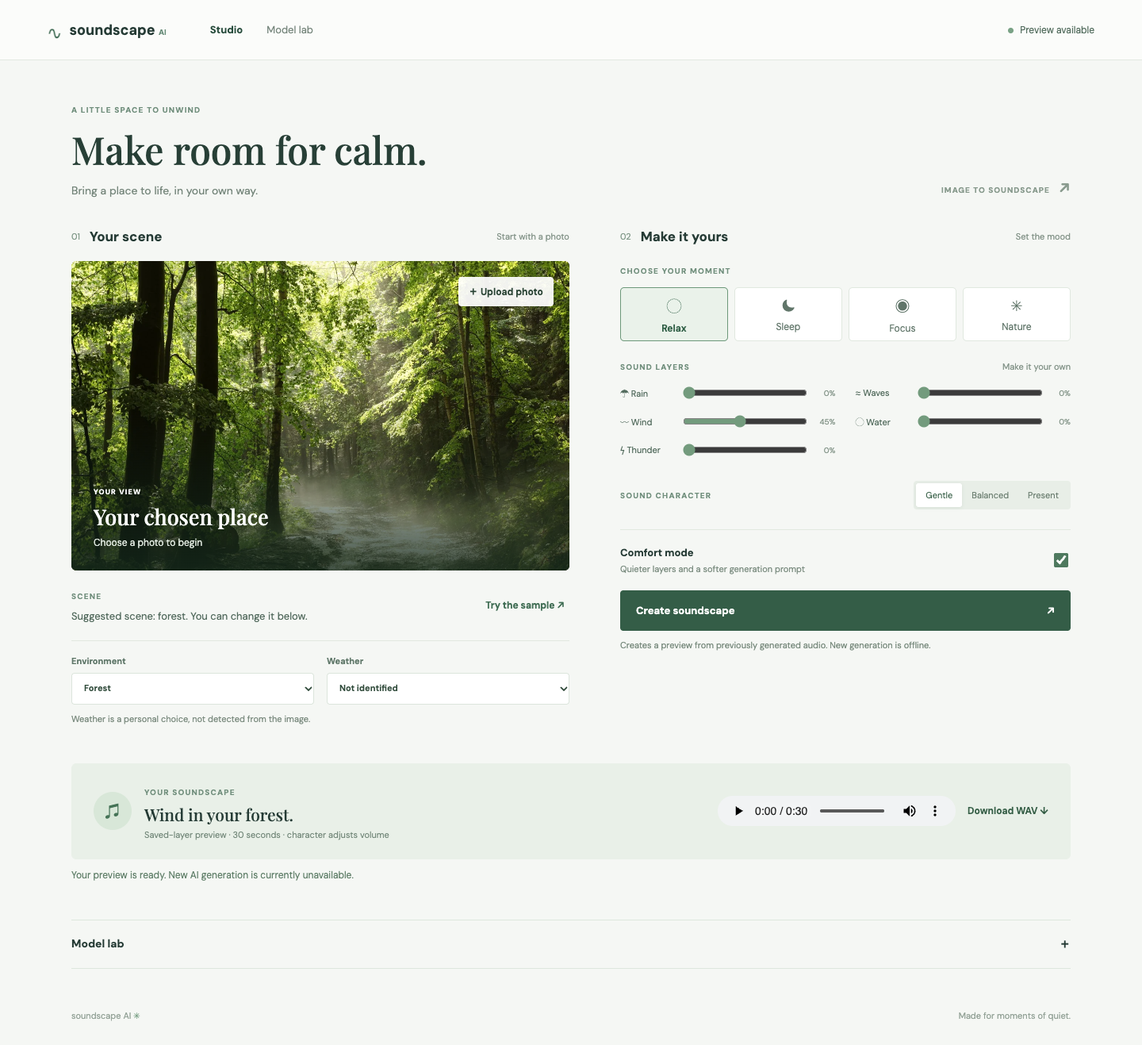
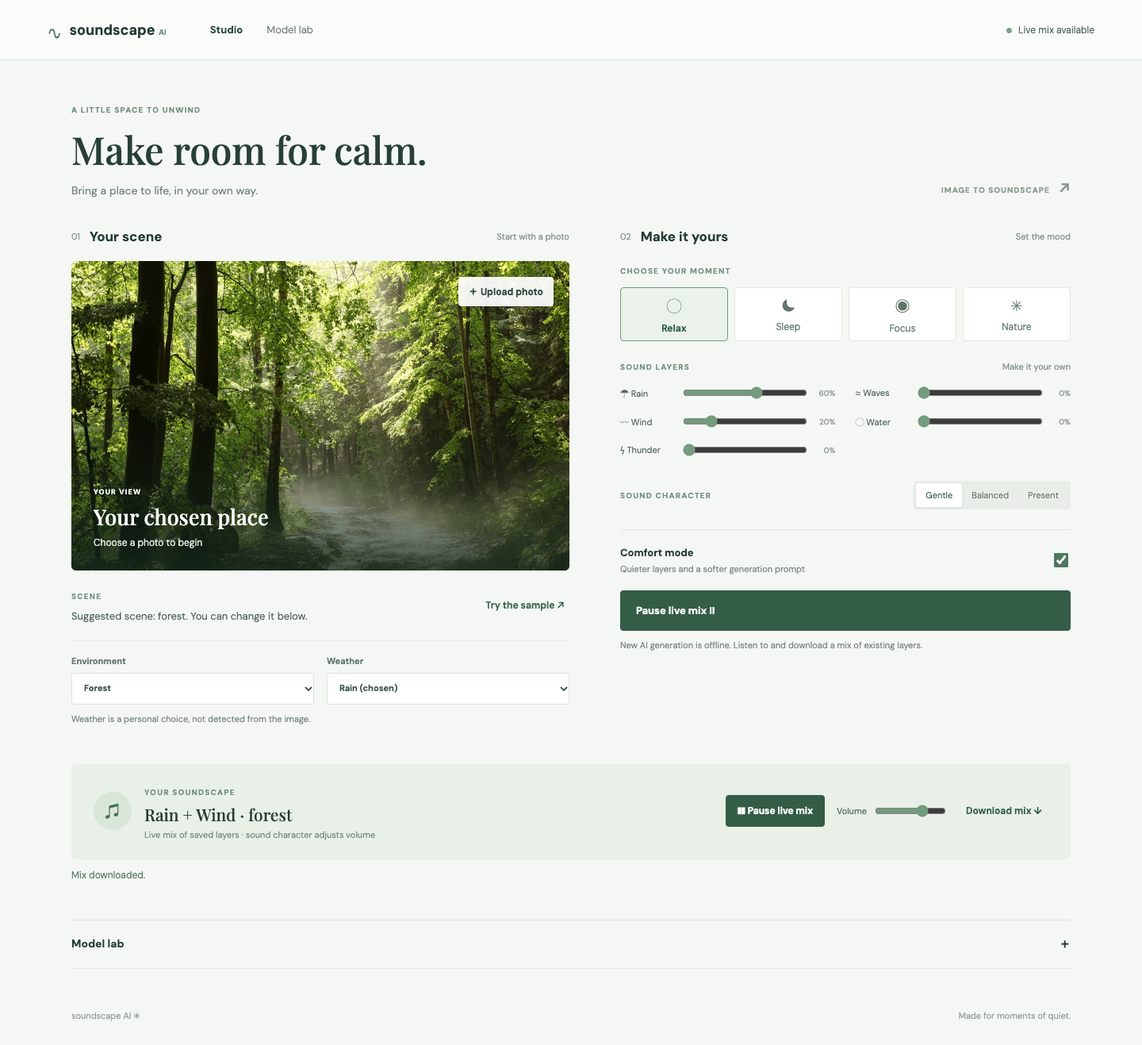
Synchronize weather and live soundscape mixing

diff --git a/frontend/app.js b/frontend/app.js
@@ -5,9 +5,11 @@ const symbols = {rain:'☂',sea_waves:'≈',wind:'〰',pouring_water:'◌',thund
 const sceneSound = {forest:'wind',coast:'sea_waves',mountain:'wind',river:'pouring_water',waterfall:'pouring_water',lake:'wind',desert:'wind'};
 const presetLevels = {relax:{rain:35,wind:15},sleep:{rain:25,wind:10},focus:{pouring_water:30,wind:10},nature:{wind:35,pouring_water:20}};
 let levels = {...presetLevels.relax};
-let intensity = 'gentle', generationAvailable = false, visionAvailable = false;
+let intensity = 'gentle', preset = 'relax', generationAvailable = false, visionAvailable = false;
 let objectUrl = null, imageUrl = null, requestVersion = 0;
 const player = $('soundPlayer');
+let context = null, master = null, gains = {}, loadingMixer = false;
+let promptTimer=null, promptVersion=0;
 
 function status(message, isError=false) { $('statusMessage').textContent=message; $('statusMessage').classList.toggle('error',isError); }
 async function api(path, options={}) {
@@ -35,15 +37,93 @@ function renderLevels() {
     const text=document.createElement('label'); text.htmlFor='level-'+key; text.textContent=symbols[key]+'  '+label;
     const slider=document.createElement('input'); Object.assign(slider,{type:'range',min:'0',max:'100',step:'5',value:String(levels[key]||0),id:'level-'+key});
     const value=document.createElement('output'); value.textContent=(levels[key]||0)+'%';
-    slider.addEventListener('input',()=>{levels[key]=Number(slider.value);value.textContent=slider.value+'%';invalidate();});
+    slider.addEventListener('input',()=>{levels[key]=Number(slider.value);value.textContent=slider.value+'%';if(levels[key]===0 && $('weatherSelect').value===(key==='rain'?'rain':key==='wind'?'wind':''))$('weatherSelect').value='none';invalidate();});
     row.append(text,slider,value); container.append(row);
   });
 }
-function invalidate() { requestVersion++; status('Your preferences changed. Create a new soundscape to hear them.'); }
+function effectiveLevels() {
+  const gain=($('comfortMode').checked ? .7 : 1)*({gentle:.75,moderate:.9,strong:1}[intensity]);
+  const total=Object.values(levels).reduce((sum,value)=>sum+value,0);
+  const headroom=Math.min(1, 100/Math.max(100,total));
+  return Object.fromEntries(Object.keys(names).map(key=>[key,Math.round((levels[key]||0)*gain*headroom)]));
+}
+function description() {
+  const active=Object.keys(names).filter(key=>(levels[key]||0)>0).map(key=>names[key]);
+  return (active.length?active.join(' + '):'No layers')+' · '+($('sceneSelect').value==='unknown'?'nature':$('sceneSelect').value);
+}
+function updateGains() {
+  if(!context || !master)return;
+  const current=effectiveLevels();
+  for(const [key,node] of Object.entries(gains))node.gain.setTargetAtTime(current[key]/100,context.currentTime,.04);
+  master.gain.setTargetAtTime(Number($('previewVolume').value)/100,context.currentTime,.04);
+}
+function invalidate() {
+  requestVersion++;
+  updateGains();
+  schedulePrompt();
+  if(player.hidden){$('player-title').textContent=description();$('previewOrigin').textContent='Live mix of saved layers · sound character adjusts volume';}
+  else status('Preferences updated. Your generated recording is unchanged.');
+}
 function currentSettings() {
   const entries=Object.entries(names).map(([key])=>[key,levels[key]||0]).sort((a,b)=>b[1]-a[1]);
-  return {scene:$('sceneSelect').value,sound:entries[0][0],intensity,comfort_mode:$('comfortMode').checked,weather:$('weatherSelect').value,seconds:10};
+  return {scene:$('sceneSelect').value,sound:entries[0][0],levels:Object.fromEntries(entries.filter(entry=>entry[1]>0)),preset,intensity,comfort_mode:$('comfortMode').checked,weather:$('weatherSelect').value,seconds:10};
 }
+function schedulePrompt(){
+  clearTimeout(promptTimer);const version=++promptVersion;
+  if(!Object.values(levels).some(value=>value>0)){$('promptDescription').textContent='Choose at least one sound.';return;}
+  promptTimer=setTimeout(async()=>{
+    try{const data=await (await api('compose',{method:'POST',headers:{'Content-Type':'application/json'},body:JSON.stringify(currentSettings())})).json();if(version===promptVersion)$('promptDescription').textContent=data.prompt;}
+    catch(error){if(version===promptVersion)$('promptDescription').textContent='Prompt unavailable.';}
+  },200);
+}
+async function ensureMixer() {
+  if(context)return;
+  const AudioContextClass=window.AudioContext||window.webkitAudioContext;
+  if(!AudioContextClass)throw new Error('Live mixing is unavailable in this browser. Download a mix instead.');
+  const ctx=new AudioContextClass();
+  const activation=ctx.resume();
+  try {
+    const buffers=await Promise.all(Object.keys(names).map(async key=>{
+      const response=await api('preview/'+key);return ctx.decodeAudioData(await response.arrayBuffer());
+    }));
+    master=ctx.createGain();master.gain.value=0;master.connect(ctx.destination);
+    Object.keys(names).forEach((key,index)=>{
+      const source=ctx.createBufferSource(), node=ctx.createGain();
+      source.buffer=buffers[index];source.loop=true;node.gain.value=0;source.connect(node).connect(master);source.start(ctx.currentTime+.1);
+      gains[key]=node;
+    });
+    context=ctx;updateGains();await activation;
+  } catch(error){await ctx.close();master=null;gains={};throw error;}
+}
+async function togglePreview() {
+  if(loadingMixer)return;
+  if(!Object.values(levels).some(value=>value>0)){status('Choose at least one sound layer.',true);return;}
+  const button=$('previewPlay');loadingMixer=true;button.disabled=true;
+  try {
+    if(!context){status('Loading saved sound layers…');await ensureMixer();}
+    if(context.state==='running' && button.getAttribute('aria-pressed')==='true') {
+      await context.suspend();button.setAttribute('aria-pressed','false');button.textContent='▶ Play live mix';if(!generationAvailable)$('generateBtn').textContent='Play live mix ↗';status('Live mix paused.');
+    } else {
+      player.pause();player.hidden=true;$('downloadSound').hidden=true;
+      await context.resume();button.setAttribute('aria-pressed','true');button.textContent='❚❚ Pause live mix';
+      if(!generationAvailable)$('generateBtn').textContent='Pause live mix Ⅱ';
+      $('player-title').textContent=description();$('previewOrigin').textContent='Live mix of saved layers · sound character adjusts volume';
+      status('Live mix playing. Adjust the layers as you listen.');
+    }
+  }catch(error){status(error.message,true);}finally{loadingMixer=false;button.disabled=false;}
+}
+$('previewPlay').addEventListener('click',()=>void togglePreview());
+$('previewVolume').addEventListener('input',()=>{updateGains();requestVersion++;});
+$('downloadMix').addEventListener('click',async()=>{
+  const button=$('downloadMix'), version=requestVersion;button.disabled=true;
+  try {
+    const volume=Number($('previewVolume').value)/100;
+    const mix=Object.fromEntries(Object.entries(effectiveLevels()).map(([key,value])=>[key,Math.round(value*volume)]));
+    const response=await api('mix',{method:'POST',headers:{'Content-Type':'application/json'},body:JSON.stringify({seconds:30,levels:mix})});
+    const blob=await response.blob();if(version!==requestVersion){status('Settings changed. Download the updated mix.');return;}
+    const url=URL.createObjectURL(blob), link=document.createElement('a');link.href=url;link.download='soundscape_mix.wav';link.click();setTimeout(()=>URL.revokeObjectURL(url),60000);status('Mix downloaded.');
+  }catch(error){status(error.message,true);}finally{button.disabled=false;}
+});
 async function analyzeFile(file) {
   if (!file || !['image/jpeg','image/png','image/webp'].includes(file.type) || file.size>8*1024*1024) { status('Choose a JPEG, PNG or WebP image under 8 MB.',true); return; }
   const version=++requestVersion;
@@ -58,6 +138,8 @@ async function analyzeFile(file) {
     if(result.scene && result.scene!=='unknown' && result.accepted!==false) {
       $('sceneSelect').value=result.scene;
       const sound=sceneSound[result.scene]||'wind'; levels={[sound]:45}; renderLevels();
+      if($('weatherSelect').value!=='none')$('weatherSelect').dispatchEvent(new Event('change'));
+      else { updateGains();schedulePrompt();if(player.hidden)$('player-title').textContent=description(); }
       $('analysisResult').textContent='Suggested scene: '+result.scene+'. You can change it below.';
       status('Scene ready. Choose the atmosphere you want to hear.');
     } else { $('sceneSelect').value='unknown'; $('analysisResult').textContent='Scene uncertain. Choose the closest environment below.'; status('Choose an environment to continue.'); }
@@ -69,37 +151,44 @@ drop.addEventListener('dragover',event=>{event.preventDefault();drop.classList.a
 drop.addEventListener('dragleave',()=>drop.classList.remove('dragover'));
 drop.addEventListener('drop',event=>{event.preventDefault();drop.classList.remove('dragover');void analyzeFile(event.dataTransfer.files[0]);});
 $('useSampleBtn').addEventListener('click',async()=>{try {const r=await fetch('/static/images/forest_sample.webp');if(!r.ok)throw Error('Sample image unavailable');await analyzeFile(new File([await r.blob()],'forest.webp',{type:'image/webp'}));}catch(e){status(e.message,true);}});
-document.querySelectorAll('[data-preset]').forEach(button=>button.addEventListener('click',()=>{levels={...presetLevels[button.dataset.preset]};setActive('presets','data-preset',button.dataset.preset);renderLevels();invalidate();}));
+document.querySelectorAll('[data-preset]').forEach(button=>button.addEventListener('click',()=>{preset=button.dataset.preset;levels={...presetLevels[preset]};setActive('presets','data-preset',preset);if($('weatherSelect').value!=='none')$('weatherSelect').dispatchEvent(new Event('change'));else{renderLevels();invalidate();}}));
 document.querySelectorAll('[data-intensity]').forEach(button=>button.addEventListener('click',()=>{intensity=button.dataset.intensity;setActive('segments','data-intensity',intensity);invalidate();}));
-['sceneSelect','weatherSelect','comfortMode'].forEach(id=>$(id).addEventListener('change',invalidate));
+$('comfortMode').addEventListener('change',invalidate);
+$('sceneSelect').addEventListener('change',()=>{
+  const sound=sceneSound[$('sceneSelect').value]||'wind';
+  levels={[sound]:45};
+  if($('weatherSelect').value!=='none')$('weatherSelect').dispatchEvent(new Event('change'));
+  else {renderLevels();invalidate();}
+});
+$('weatherSelect').addEventListener('change',()=>{
+  const weather=$('weatherSelect').value;
+  if(weather==='rain'){
+    levels.rain=Math.max(levels.rain||0,60);
+    if($('sceneSelect').value==='coast')levels.sea_waves=Math.max(levels.sea_waves||0,40);
+    if($('sceneSelect').value==='forest')levels.wind=Math.min(levels.wind||0,20);
+  }else if(weather==='wind')levels.wind=Math.max(levels.wind||0,60);
+  renderLevels();invalidate();
+  if(weather==='snow'||weather==='fog')status('Weather is a visual preference; choose the sounds you want to hear.');
+});
 $('generateBtn').addEventListener('click',async()=>{
+  if(!generationAvailable){await togglePreview();return;}
   const version=++requestVersion, button=$('generateBtn');
   if(!Object.values(levels).some(v=>v>0)){status('Choose at least one sound layer.',true);return;}
   button.disabled=true; status(generationAvailable?'Creating your new soundscape…':'Preparing your preview from saved layers…');
   try {
     const settings=currentSettings();
     const composed=await (await api('compose',{method:'POST',headers:{'Content-Type':'application/json'},body:JSON.stringify(settings)})).json();
-    let response, generated=false, fallbackReason='';
-    if(generationAvailable) {
-      try {
-        response=await api('generate',{method:'POST',headers:{'Content-Type':'application/json'},body:JSON.stringify({prompt:composed.prompt,adapter:$('adapterSelect').value,seconds:10,seed:Math.floor(Math.random()*4294967296)})});
-        generated=true;
-      } catch(error) { fallbackReason=error.message; }
-    }
-    if(!generated) {
-      const gain=(settings.comfort_mode ? .7 : 1)*({gentle:.75,moderate:.9,strong:1}[settings.intensity]);
-      const mix=Object.fromEntries(Object.entries(levels).map(([key,value])=>[key,Math.round(value*gain)]));
-      response=await api('mix',{method:'POST',headers:{'Content-Type':'application/json'},body:JSON.stringify({seconds:30,levels:mix})});
-    }
+    const response=await api('generate',{method:'POST',headers:{'Content-Type':'application/json'},body:JSON.stringify({prompt:composed.prompt,adapter:$('adapterSelect').value,seconds:10,seed:Math.floor(Math.random()*4294967296)})});
     const blob=await response.blob(); if(version!==requestVersion)return;
+    if(context && context.state==='running'){await context.suspend();$('previewPlay').setAttribute('aria-pressed','false');$('previewPlay').textContent='▶ Play live mix';}
     if(objectUrl)URL.revokeObjectURL(objectUrl); objectUrl=URL.createObjectURL(blob);
-    player.src=objectUrl; player.load(); $('downloadSound').href=objectUrl; $('downloadSound').hidden=false;
-    $('player-title').textContent=names[settings.sound]+' in your '+(settings.scene==='unknown'?'nature scene':settings.scene)+'.';
-    $('previewOrigin').textContent=generated?'New AI-generated recording · 10 seconds':'Saved-layer preview · 30 seconds · character adjusts volume';
-    status(generated?'Your new soundscape is ready.':fallbackReason?'Generation unavailable: '+fallbackReason+' A saved-layer preview is ready.':'Your preview is ready. New AI generation is currently unavailable.',!!fallbackReason);
-  } catch(error){if(version===requestVersion)status(error.message,true);} finally {button.disabled=false;}
+    player.src=objectUrl; player.hidden=false;player.load(); $('downloadSound').href=objectUrl; $('downloadSound').hidden=false;
+    $('player-title').textContent='Requested: '+Object.keys(settings.levels).map(key=>names[key]).join(' + ')+' · '+settings.scene;
+    $('previewOrigin').textContent='New AI-generated recording · 10 seconds · requested sounds may vary';
+    status('Your new soundscape is ready.');
+  } catch(error){if(version===requestVersion)status('Generation unavailable: '+error.message+' Use Play live mix for saved layers.',true);} finally {button.disabled=false;}
 });
 $('comparisonSelect').addEventListener('change',renderComparisons);
 function renderComparisons(){const container=$('comparisonPlayers');container.replaceChildren();for(const [id,label] of [['original','Original'],['intensity','Intensity LoRA'],['comfort','Comfort LoRA']]){const row=document.createElement('div');const title=document.createElement('span');title.textContent=label;const audio=document.createElement('audio');audio.controls=true;audio.preload='metadata';audio.src='/api/compare/'+$('comparisonSelect').value+'/'+id;row.append(title,audio);container.append(row);}}
-async function initialize(){renderLevels();renderComparisons();try{const data=await (await api('status')).json();visionAvailable=String(data.vision).includes('ready');generationAvailable=!!data.generation?.available;for(const option of $('adapterSelect').options){option.disabled=!(data.generation?.available_models||['original']).includes(option.value);}$('connection').textContent=generationAvailable?'Generation configured':'Preview available';$('generationHint').textContent=generationAvailable?'Requests a new recording; the strongest layer guides the model. Service availability is checked on request.':'Creates a preview from previously generated audio. New generation is offline.';}catch(error){$('connection').textContent='Service unavailable';$('generationHint').textContent='The sound service could not be reached.';status(error.message,true);}}
+async function initialize(){renderLevels();renderComparisons();schedulePrompt();try{const data=await (await api('status')).json();visionAvailable=String(data.vision).includes('ready');generationAvailable=!!data.generation?.available;for(const option of $('adapterSelect').options){option.disabled=!(data.generation?.available_models||['original']).includes(option.value);}$('connection').textContent=generationAvailable?'Generation configured':'Live mix available';$('generateBtn').textContent=generationAvailable?'Generate soundscape ↗':'Play live mix ↗';$('generationHint').textContent=generationAvailable?'Requests a new recording from the selected model.':'New AI generation is offline. Listen to and download a mix of existing layers.';}catch(error){$('connection').textContent='Service unavailable';$('generationHint').textContent='The sound service could not be reached.';status(error.message,true);}}
 void initialize();

diff --git a/frontend/index.html b/frontend/index.html
@@ -6,7 +6,8 @@
   <meta name="theme-color" content="#f5f7f4">
   <title>SoundScape AI | Your moment of calm</title>
   <link rel="stylesheet" href="/static/styles.css?v=3">
-  <script src="/static/app.js?v=3" defer></script>
+  <link rel="stylesheet" href="/static/mixer.css?v=1">
+  <script src="/static/app.js?v=4" defer></script>
 </head>
 <body>
   <header class="topbar">
@@ -44,10 +45,10 @@
       </section>
     </div>
 
-    <section class="player-section" aria-labelledby="player-title"><div class="player-copy"><span class="player-icon" aria-hidden="true">♫</span><div><span class="mini-label">YOUR SOUNDSCAPE</span><h2 id="player-title">A moment just for you.</h2><p id="previewOrigin">Your soundscape will appear here.</p></div></div><div class="player-controls"><audio id="soundPlayer" controls preload="metadata" aria-label="Soundscape player"></audio><a id="downloadSound" class="download" hidden download="soundscape.wav">Download WAV ↓</a></div></section>
+    <section class="player-section" aria-labelledby="player-title"><div class="player-copy"><span class="player-icon" aria-hidden="true">♫</span><div><span class="mini-label">YOUR SOUNDSCAPE</span><h2 id="player-title">A moment just for you.</h2><p id="previewOrigin">Preview your chosen layers or generate a new recording.</p></div></div><div class="player-controls"><button id="previewPlay" class="preview-button" type="button" aria-pressed="false">▶ Play live mix</button><label class="volume-control">Volume <input id="previewVolume" type="range" min="0" max="100" value="70" aria-label="Preview volume"></label><audio id="soundPlayer" controls preload="metadata" aria-label="Generated soundscape player" hidden></audio><button id="downloadMix" class="download" type="button">Download mix ↓</button><a id="downloadSound" class="download" hidden download="soundscape.wav">Download generated WAV ↓</a></div></section>
     <p id="statusMessage" class="status" role="status" aria-live="polite">Ready when you are.</p>
 
-    <details id="research" class="research"><summary>Model lab <span>＋</span></summary><div class="research-content"><p>Compare saved outputs from the original AudioLDM 2 model and Athir’s experimental LoRA adapters. These are earlier recordings, not new generations.</p><label for="comparisonSelect">Comparison prompt</label><select id="comparisonSelect"><option value="heavy_rain">Heavy and strong rain</option><option value="rain_nice_sound">Rain nice sound</option></select><div id="comparisonPlayers" class="comparisons"></div><label for="adapterSelect">Model for new generation</label><select id="adapterSelect"><option value="original">Original AudioLDM 2</option><option value="intensity" disabled>Intensity LoRA</option><option value="comfort" disabled>Comfort LoRA</option></select><p>Lower model loss does not establish better listening quality. Weather recognition and new generation require separately available models.</p></div></details>
+    <details id="research" class="research"><summary>Model lab <span>＋</span></summary><div class="research-content"><p>Current audio request: <span id="promptDescription">Preparing prompt…</span></p><p>Compare saved outputs from the original AudioLDM 2 model and Athir’s experimental LoRA adapters. These are earlier recordings, not new generations.</p><label for="comparisonSelect">Comparison prompt</label><select id="comparisonSelect"><option value="heavy_rain">Heavy and strong rain</option><option value="rain_nice_sound">Rain nice sound</option></select><div id="comparisonPlayers" class="comparisons"></div><label for="adapterSelect">Model for new generation</label><select id="adapterSelect"><option value="original">Original AudioLDM 2</option><option value="intensity" disabled>Intensity LoRA</option><option value="comfort" disabled>Comfort LoRA</option></select><p>Lower model loss does not establish better listening quality. Weather recognition and new generation require separately available models.</p></div></details>
   </main>
   <footer><span>soundscape AI <span aria-hidden="true">✳</span></span><span>Made for moments of quiet.</span></footer>
 </body>

diff --git a/frontend/mixer.css b/frontend/mixer.css
@@ -1,0 +1,6 @@
+.player-controls { flex-wrap: wrap; justify-content: flex-end; }
+.preview-button { background: #345d47; border: 0; border-radius: 4px; color: white; padding: 12px 15px; font-size: 12px; font-weight: 700; }
+.volume-control { display: flex; align-items: center; gap: 8px; font-size: 11px; color: #526b5d; }
+.volume-control input { width: 90px; accent-color: #739b7d; }
+button.download { border: 0; background: transparent; padding: 8px; cursor: pointer; }
+@media (max-width: 680px) { .player-controls { justify-content: flex-start; } }

diff --git a/app/prompting.py b/app/prompting.py
@@ -1,19 +1,29 @@
 """Stable interface shared by vision and AudioLDM 2 teams.
 Audio parameters below describe desired sound qualities, NOT sound facts in an image.
 """
-from pydantic import BaseModel, Field
+from pydantic import BaseModel, Field, field_validator
 from typing import Literal
 
 Scene = Literal['forest', 'coast', 'desert', 'river', 'waterfall', 'mountain', 'lake', 'unknown']
 Intensity = Literal['gentle', 'moderate', 'strong']
+Sound = Literal['rain', 'sea_waves', 'wind', 'pouring_water', 'thunderstorm']
 
 class SoundSettings(BaseModel):
     scene: Scene = 'forest'
-    sound: Literal['rain', 'sea_waves', 'wind', 'pouring_water', 'thunderstorm'] = 'rain'
+    sound: Sound = 'rain'
+    levels: dict[Sound, int] | None = None
+    preset: Literal['relax', 'sleep', 'focus', 'nature'] = 'relax'
     intensity: Intensity = 'gentle'
     comfort_mode: bool = True
     weather: Literal['none', 'rain', 'snow', 'fog', 'wind'] = 'none'
     seconds: int = Field(default=10, ge=5, le=30)
+
+    @field_validator('levels')
+    @classmethod
+    def validate_levels(cls, value):
+        if value is not None and (not value or not any(value.values()) or any(v < 0 or v > 100 for v in value.values())):
+            raise ValueError('Choose at least one sound level between 0 and 100')
+        return value
 
 SCENES = {
     'forest': 'a peaceful forest with tall trees',
@@ -27,15 +37,16 @@ SCENES = {
 }
 SOUNDS = {
     'rain': 'rain falling steadily',
-    'sea_waves': 'gentle ocean waves rolling onto the shore',
-    'wind': 'wind softly moving through the surroundings',
-    'pouring_water': 'flowing and trickling freshwater',
-    'thunderstorm': 'a distant rumbling thunderstorm',
+    'sea_waves': 'gentle ocean waves',
+    'wind': 'soft wind',
+    'pouring_water': 'flowing water',
+    'thunderstorm': 'distant thunder',
 }
 
 def build_prompt(settings: SoundSettings) -> dict:
     environment = SCENES[settings.scene]
-    event = SOUNDS[settings.sound]
+    active = sorted(((name, level) for name, level in (settings.levels or {settings.sound: 100}).items() if level), key=lambda item: -item[1])
+    event = ', '.join(SOUNDS[name] for name, _ in active)
     strength = {
         'gentle': 'very soft, delicate and unobtrusive',
         'moderate': 'natural and moderately present',
@@ -43,7 +54,9 @@ def build_prompt(settings: SoundSettings) -> dict:
     }[settings.intensity]
     style = 'Smooth relaxing ambience, no sudden loud events.' if settings.comfort_mode else 'Natural dynamic environmental ambience.'
     weather = '' if settings.weather == 'none' else f' The listener imagines {settings.weather} in the scene.'
-    prompt = f'The natural sound of {event} in {environment}.{weather} {strength.capitalize()} acoustic texture. {style} High-fidelity field recording quality, no music, no speech.'
+    mood = {'relax': 'a restful atmosphere', 'sleep': 'a quiet sleep-time atmosphere',
+            'focus': 'an unobtrusive atmosphere for focus', 'nature': 'a natural outdoor atmosphere'}[settings.preset]
+    prompt = f'The natural sounds of {event} in {environment}.{weather} {strength.capitalize()} texture, {mood}. {style} No music or speech.'
     return {
         'prompt': prompt,
         'negative_prompt': 'speech, voices, music, engines, traffic, distortion, harsh clicks, digital artifacts',

diff --git a/tests/test_app.py b/tests/test_app.py
@@ -32,6 +32,32 @@ def test_weather_is_a_user_preference_and_comfort_changes_request():
     assert gentle['prompt'] != natural['prompt']
     assert client.post('/api/compose',json={**base,'weather':'hail'}).status_code == 422
 
+def test_multi_layer_prompt_preserves_scene_weather_and_preset():
+    payload={'scene':'coast','weather':'rain','levels':{'rain':60,'sea_waves':40},
+             'preset':'sleep','comfort_mode':True,'sound':'rain'}
+    result=client.post('/api/compose',json=payload)
+    assert result.status_code==200
+    prompt=result.json()['prompt']
+    for word in ['rain','waves','coast','sleep']:
+        assert word in prompt
+    assert 'listener imagines rain' in prompt
+    assert len(prompt)<=400
+    assert client.post('/api/compose',json={**payload,'levels':{'rain':0}}).status_code==422
+    all_layers={name:50 for name in ('rain','sea_waves','wind','pouring_water','thunderstorm')}
+    longest=client.post('/api/compose',json={**payload,'scene':'waterfall','levels':all_layers}).json()['prompt']
+    assert len(longest)<=400
+
+def test_real_layer_mixes_follow_levels():
+    rain=client.post('/api/mix',json={'seconds':5,'levels':{'rain':60}})
+    wind=client.post('/api/mix',json={'seconds':5,'levels':{'wind':60}})
+    combined=client.post('/api/mix',json={'seconds':5,'levels':{'rain':60,'sea_waves':40}})
+    assert rain.status_code==wind.status_code==combined.status_code==200
+    r,sr=sf.read(BytesIO(rain.content),dtype='float32')
+    w,_=sf.read(BytesIO(wind.content),dtype='float32')
+    c,_=sf.read(BytesIO(combined.content),dtype='float32')
+    assert sr==16000 and len(r)==len(w)==len(c)==80000
+    assert not np.allclose(r,w) and not np.allclose(r,c)
+
 def test_image_validation():
     r = client.post('/api/analyze',files={'image':('bad.txt',b'not image','text/plain')})
     assert r.status_code == 415

diff --git a/README.md b/README.md
@@ -14,9 +14,9 @@ Upload a scene, shape its atmosphere, and listen to a soundscape made for your m
 
 1. Upload a nature photo or use the sample. The trained scene model suggests a scene; you can correct it.
 2. Choose Relax, Sleep, Focus or Nature, then adjust the rain, waves, wind, water and thunder layers. Weather is a user choice; the current model does not recognize weather.
-3. Create and play a soundscape, then download its WAV. With no GPU service connected, the result is explicitly labeled as a mix of saved audio, not new model inference.
+3. Play the saved-layer mix and adjust its sliders while listening. Download a 30-second WAV of the current mix. When a GPU service is configured, the creation button requests a new recording; it is distinct from the saved-layer mix.
 
-Comfort mode reduces preview gain and adds softer language to a new-generation prompt. Its perceptual effect has not been validated. Presets express listening preferences; they are not clinical claims. The Model Lab contains previously generated original and LoRA comparisons.
+Comfort mode reduces preview gain and adds softer language to a new-generation prompt. Sound character adjusts preview volume rather than generating a different recording. Their perceptual effects have not been validated. Presets express listening preferences; they are not clinical claims. The Model Lab contains previously generated original and LoRA comparisons.
 
 ## Architecture
 
@@ -34,7 +34,7 @@ flowchart LR
     B --> O
 ```
 
-The public Render web service runs CPU scene inference and serves saved WAVs. An optional separately hosted GPU service can receive a prompt; configuration alone does not establish that it is live. The model generates one main sound; layer sliders control the saved-layer mix. The image model does not infer weather or prove that a sound is present.
+The public Render web service runs CPU scene inference and serves saved WAVs. An optional separately hosted GPU service can receive a prompt; configuration alone does not establish that it is live. The prompt includes all selected sounds, but model adherence is unverified. Layer sliders control the live saved-layer mix; selecting rain or wind adds that sound, while snow and fog are visual preferences. The image model does not infer weather or prove that a sound is present.
 
 ## Evidence and model status
 
@@ -63,6 +63,6 @@ node --check frontend/app.js
 
 - [Research review and testable design implications](docs/research/relaxation_soundscape_research.md); [listening rating template](listening_ratings_template.csv).
 - [AudioLDM 2](https://huggingface.co/cvssp/audioldm2) weights are CC BY-NC-SA 4.0. [ESC-50](https://github.com/karolpiczak/ESC-50) is generally noncommercial; review individual attribution and licenses before use or redistribution.
-- Stable Audio Open is an unverified candidate with its own access and license terms. The optional comparison has not been run.
+- Stable Audio Open is an unverified candidate with its own access and license terms. The optional comparison has not been run. See [GPU options](docs/architecture/gpu-options.md) for current cost and quota considerations.
 - The scene model has six scene classes and no validated weather head. The LoRA checkpoint is not embedded in the notebook. GPU availability, live inference, cross-model quality and long-duration listening require further testing.
 - Athir authored the preserved original audio notebook and LoRA experiments; SoundScape AI contributors built the vision, integration and V2 evaluation work. See [AUDIO_NOTEBOOK_FINDINGS.md](AUDIO_NOTEBOOK_FINDINGS.md) for attribution and results.

diff --git a/docs/architecture/gpu-options.md b/docs/architecture/gpu-options.md
@@ -1,0 +1,9 @@
+# GPU inference options
+
+Checked 18 November 2026 against provider documentation. No service was created and no paid compute was enabled.
+
+- [Hugging Face ZeroGPU](https://huggingface.co/docs/hub/spaces-zerogpu) is a shared, Gradio-only GPU option. Eligible free personal accounts may host two Spaces; access is subject to account eligibility, queueing and daily quotas. The documentation lists 5 minutes daily for free accounts and 2 minutes for unauthenticated users. Some paid tiers can automatically consume prepaid credits beyond quota, so inspect account billing settings before use. The existing Gradio bridge still needs an actual deployed Space, compatible model dependencies and an end-to-end test.
+- [Hugging Face dedicated Spaces](https://huggingface.co/pricing) list T4 small at $0.40/hour and T4 medium at $0.60/hour at the time of review. These are billable; no deployment has been made.
+- The notebook's Colab GPU path is suitable for a controlled research run but availability and limits vary. A notebook session is not an always-on production inference service.
+
+The existing Render web service is configured for a free CPU runtime. No separately verified GPU endpoint or LoRA checkpoint is available to this project in the current environment. Model compatibility, capacity, audio quality, license suitability and true end-to-end generation must be verified before calling a backend production-ready.

diff --git a/docs/results/evaluation.md b/docs/results/evaluation.md
@@ -6,4 +6,4 @@ Six previously generated comparison WAVs were measured with `python scripts/eval
 
 The V2 notebook defines a paired model/seed grid, optional train-only-proxy experiment, Stable Audio Open pilot and distinct-segment assembly. Those experiments are not executed results. See [the V2 report](../../SoundScape_V2_Report.md) and [rating template](../../listening_ratings_template.csv). No new soundscape is recommended as better without blinded listening.
 
-The UI's saved-layer previews are mixtures of existing WAVs, whose long-form sources repeat short generated material. Browser playback and comfort-gain behavior were tested locally; weather recognition and a live GPU generation request remain unverified.
+The UI's live previews are mixtures of existing WAVs, whose long-form sources repeat short generated material. Twenty-six automated tests passed locally. Chrome testing verified rainy-coast layer selection, an uninterrupted Web Audio gain change, WAV download, desktop/mobile layout widths, and rejection of a stale response using a simulated generation endpoint. The downloaded file was finite mono PCM16, 16 kHz and 30 seconds long. This is a desktop browser with a mobile-sized viewport, not a test on a physical mobile browser. Weather recognition and a live GPU generation request remain unverified.
